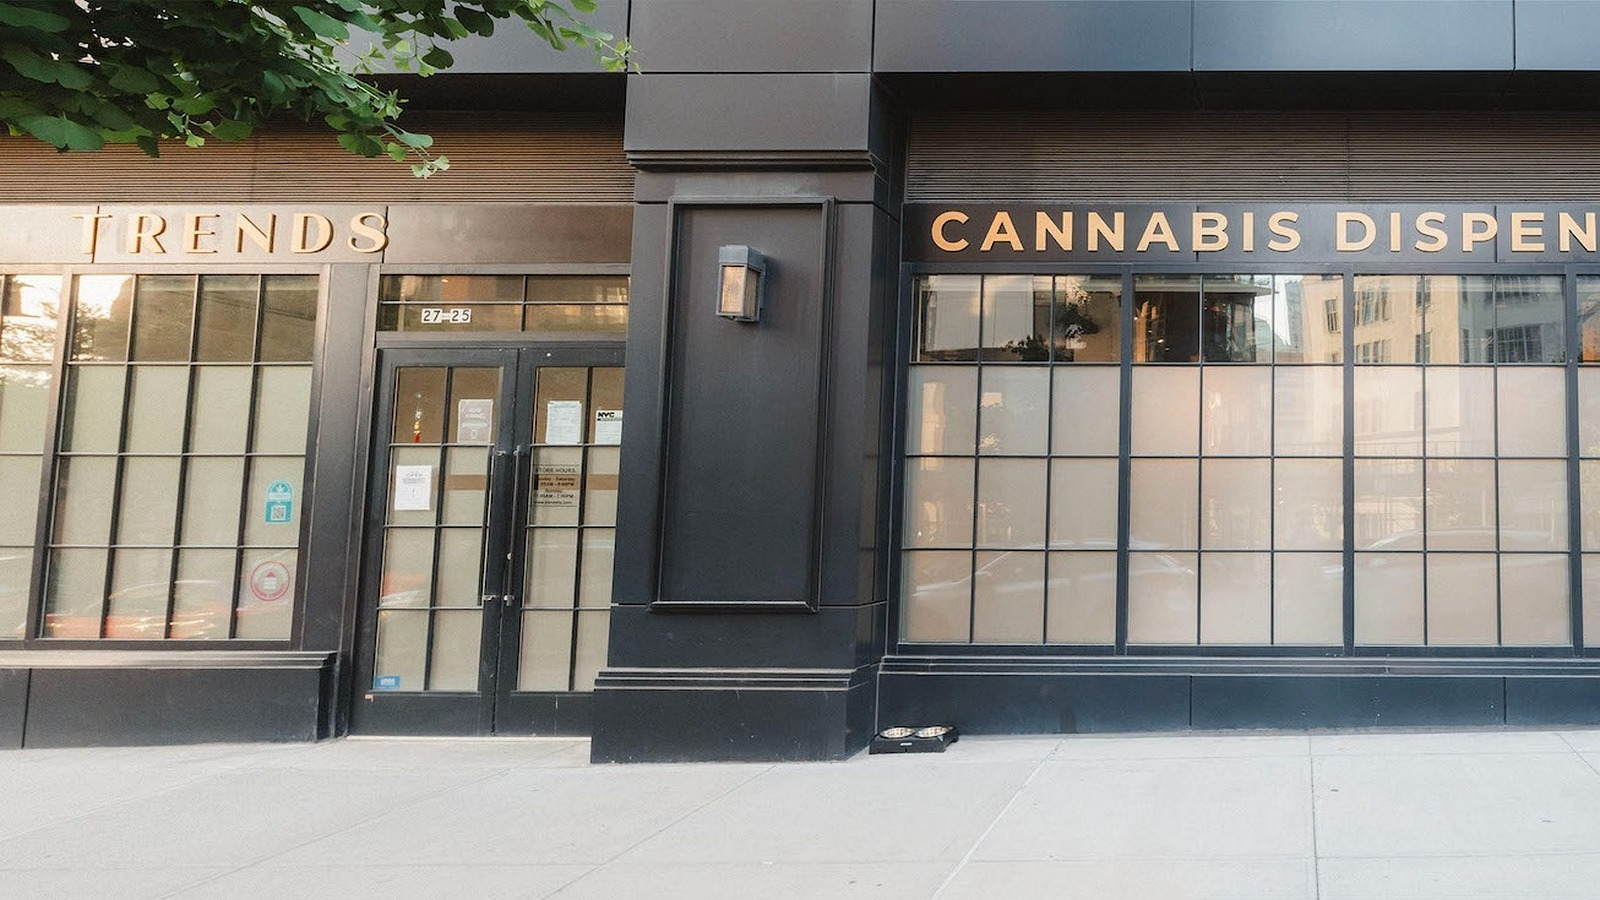
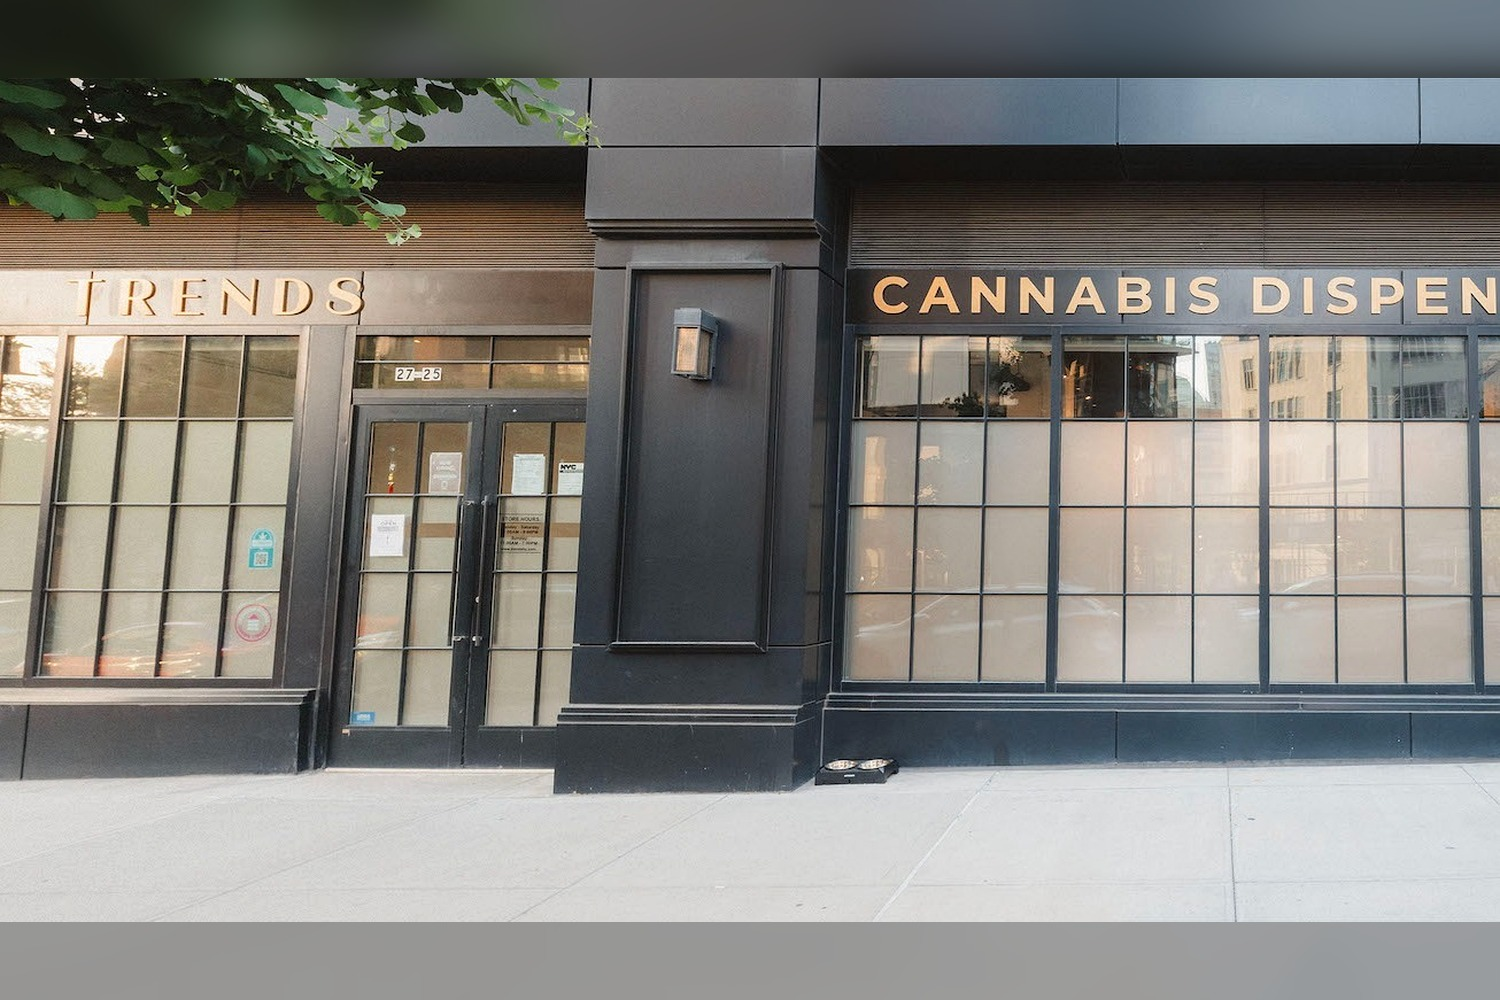
Optimize Trends hero for Gudtrip card crop

diff --git a/README.md b/README.md
@@ -14,8 +14,9 @@ Public, stable image assets used by Gudtrip store pages.
 ## Store 59 — Trends
 
 - File: `stores/59/trends-cannabis-dispensary-storefront.jpg`
-- Dimensions: 1600 × 900
+- Dimensions: 1500 × 1000
 - Content: storefront at 27-25 44th Drive, Long Island City. The image visibly identifies `TRENDS`, `CANNABIS DISPENSARY`, and street number `27-25`.
+- Presentation: 3:2-safe composition optimized for the Gudtrip store card so the left-side `TRENDS` sign is not cropped by `object-fit: cover`.
 - Listing source: <https://www.leafly.com/dispensary-info/trends>
 - Source image: <https://leafly-public.imgix.net/dispensary/photos/gallery382803/jfPpEf4RdyA5cO6rN2xw_ed4f1761-1fbe-4279-a790-f93a4f8aa71f>
 
